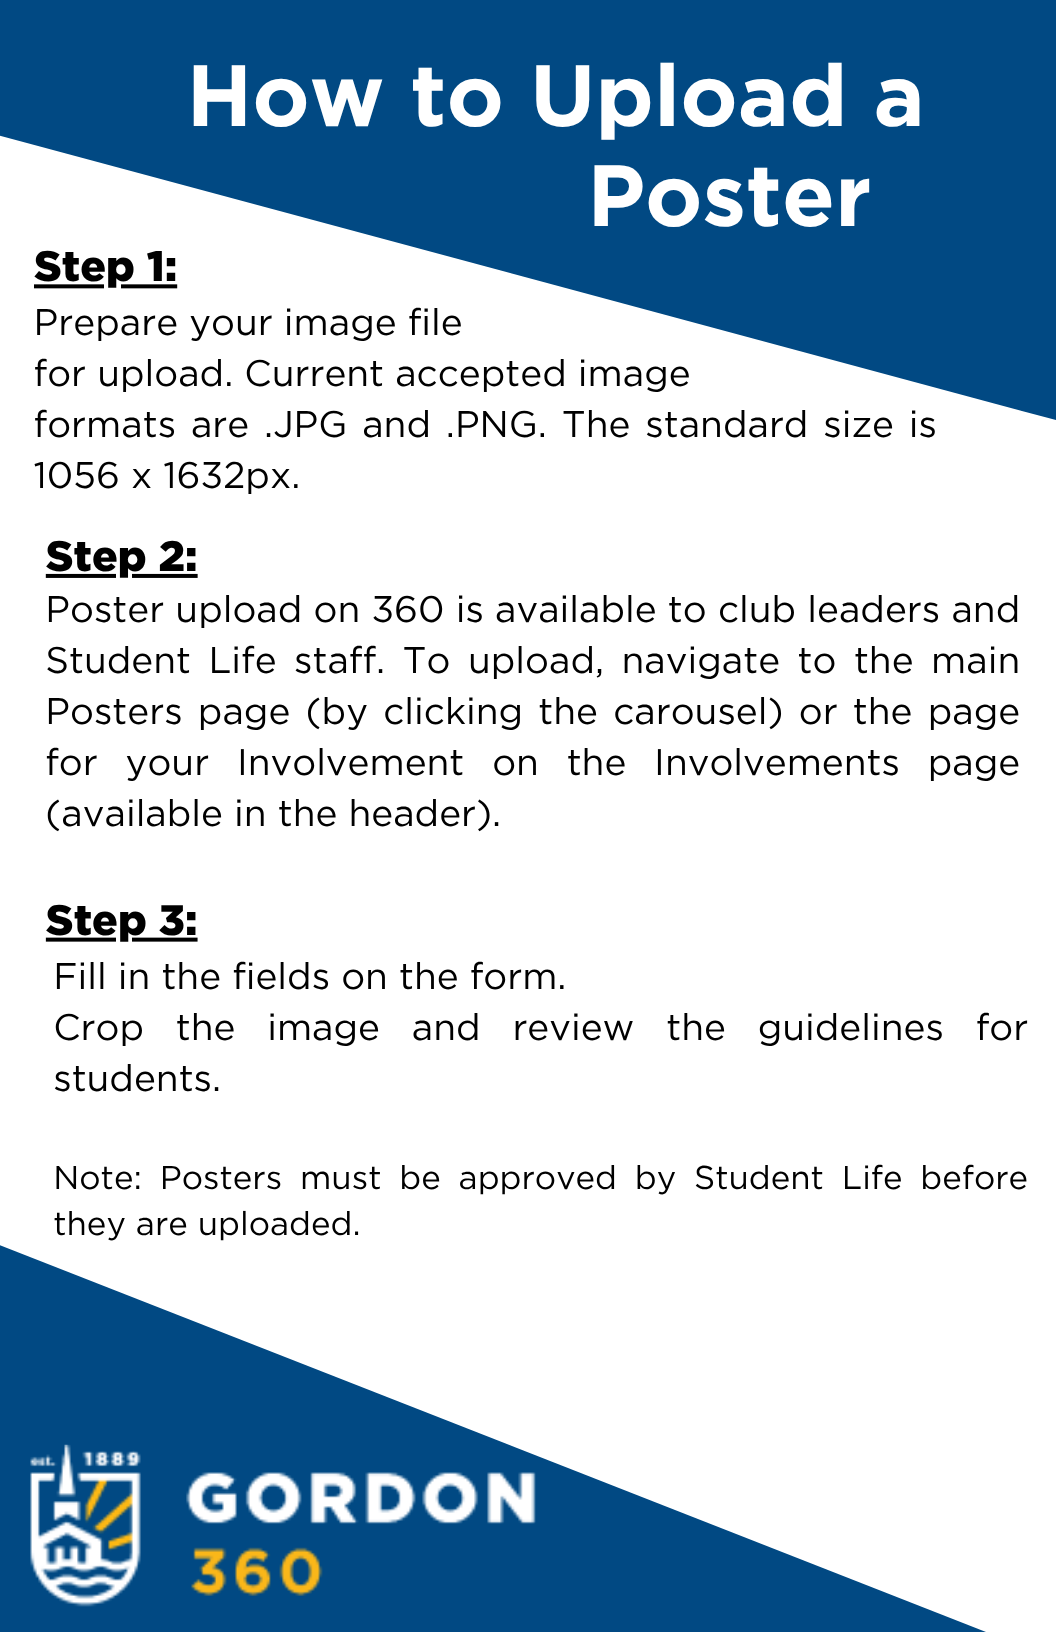
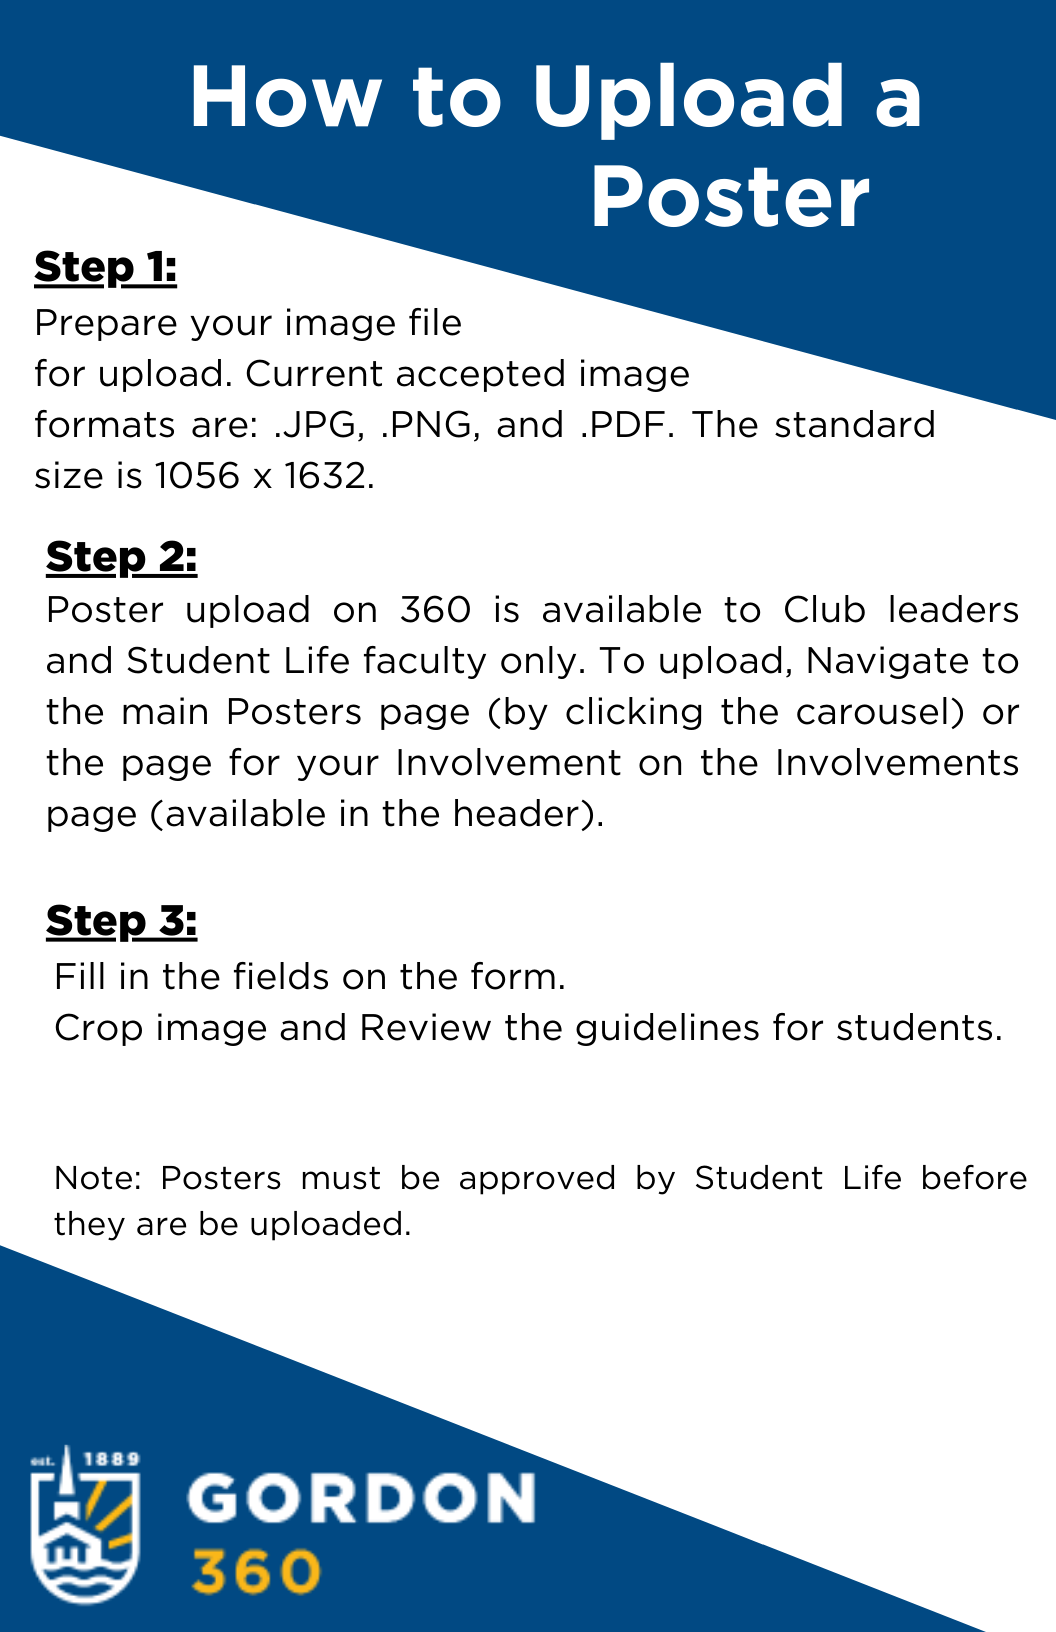
Revert "Update DefaultPoster.png"

diff --git a/src/views/Posters/Forms/CropPoster/index.jsx b/src/views/Posters/Forms/CropPoster/index.jsx
@@ -86,7 +86,7 @@ const CropPoster = ({ open, onClose, onSubmit }) => {
   };
   const onDropRejected = async () => {
     clearPhotoDialogErrorTimeout();
-    setPhotoDialogError('Sorry, invalid image file! Only PNG and JPEG posters are accepted.');
+    setPhotoDialogError('Sorry, invalid image file! Only PNG, JPEG, and PDF posters are accepted.');
   };
 
   // Creates the message for the dialog box based on the state
@@ -134,6 +134,7 @@ const CropPoster = ({ open, onClose, onSubmit }) => {
               accept={{
                 'image/jpeg': [],
                 'image/png': [],
+                'application/pdf': [],
               }}
               onDropAccepted={onDropAccepted}
               onDropRejected={onDropRejected}
